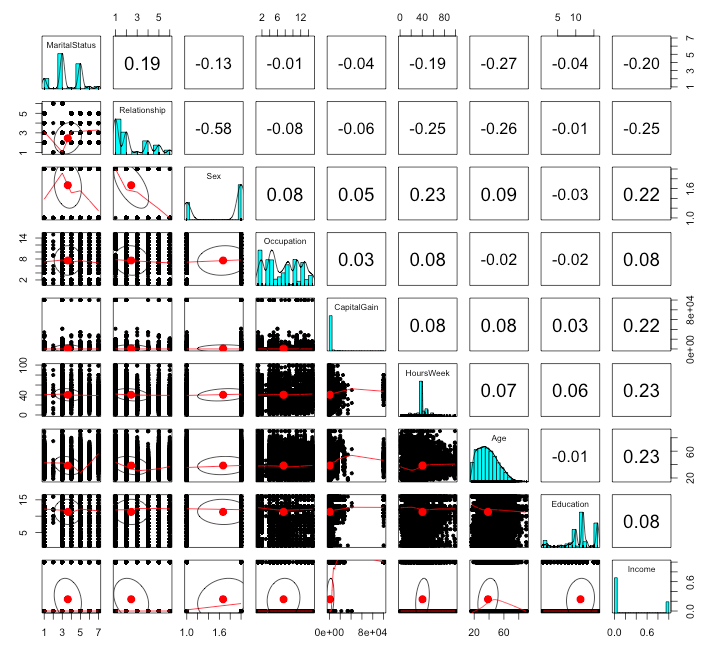
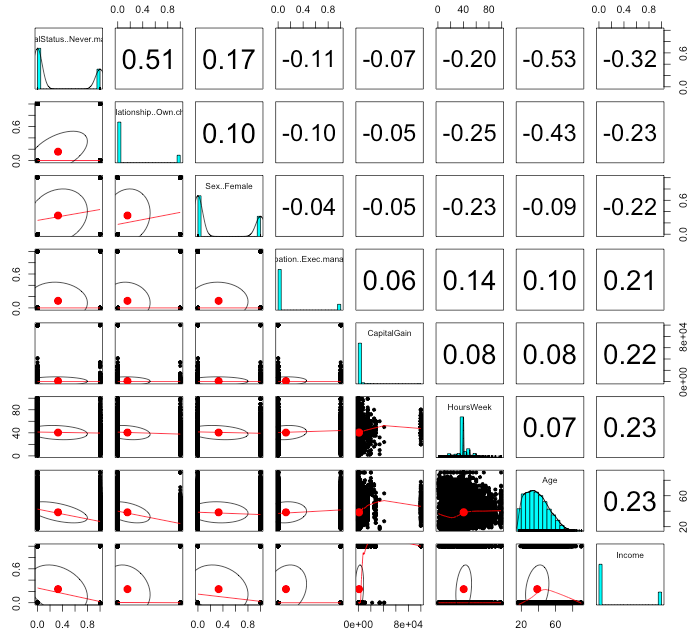
u

diff --git a/_posts/2014-09-27-Exploring-Your-Data-Set.md b/_posts/2014-09-27-Exploring-Your-Data-Set.md
@@ -36,7 +36,7 @@ adults <- read.csv(textConnection(x), header=F)
 # adults <-read.csv('https://archive.ics.uci.edu/ml/machine-learning-databases/adult/adult.data', header=F)
 ```
 <BR>
-We fill in the missing headers for the UCI set and cast the outcome variable ``Income`` to a binary format of **1** and **0**. I am also changing the direction of the prediction, if it is under $50k, I assign it a 0, and above, I assign it a 1 - this will make the final correlation-matrix plot easier to understand:
+We fill in the missing headers for the UCI set and cast the outcome variable ``Income`` to a binary format of **1** and **0** (here I am reversing the orginal order, if it is under $50k, it is **0**, and above, **1** - this will make the final correlation-matrix plot easier to understand):
 
 ```r
 names(adults)=c('Age','Workclass','FinalWeight','Education','EducationNumber',
@@ -100,17 +100,19 @@ The top correlated pairs, as seen above, won't be of much use when they're from 
 
 ```r
 selectedSub <- subset(corList, (abs(cor) > 0.2 & j == 'Income'))
-bestSub <-  sapply(strsplit(as.character(selectedSub$i),'[.]'), "[", 1)
-bestSub <- unique(bestSub)
+bestSub <- c('MaritalStatus..Never.married','Relationship..Own.child',
+  'Sex..Female','Occupation..Exec.managerial','CapitalGain','HoursWeek','Age')
 ```
 <BR>
 Finally we plot the highly correlated pairs using the **{psych}** package's ``pair.panels`` plot (this can be done on the original data as ``pair.panels`` can handle factor and character variables):<BR>
-```{r}
-pairs.panels(adults[c(bestSub, 'Income')])
+```r
+library(psych)
+pairs.panels(adultsTrsf[c(bestSub, 'Income')])
 ```
 <BR>
 ![plot of chunk unnamed-chunk-9](../img/posts/correlations/unnamed-chunk-9.png) 
 <BR><BR>
+The pairs plot, and in particular the last ``income`` column, tell us a lot about our data set. Being never married is the most negatively correlated with income over $50,000/year and hours worked and age are the most postively correlated.<BR>  
 **Things to keep in mind**<BR>
 <li>If you have a huge number of features in your data set, then be ready for extra computing time,</li>
 <li>and don't bother plotting it via ``pair.panels``, it will end up hanging R.</li>
@@ -147,7 +149,7 @@ cor.prob <- function (X, dfr = nrow(X) - 2) {
         R[row(R) == col(R)] <- NA
         R
 }
- 
+
 ## Use this to dump the cor.prob output to a 4 column matrix
 ## with row/column indices, correlation, and p-value.
 ## See StackOverflow question: http://goo.gl/fCUcQ
@@ -169,11 +171,16 @@ print(head(corList,10))
 
 corList <- corMasterList[order(corMasterList$cor),]
 selectedSub <- subset(corList, (abs(cor) > 0.2 & j == 'Income'))
+# to get the best variables from original list:
 bestSub <-  sapply(strsplit(as.character(selectedSub$i),'[.]'), "[", 1)
 bestSub <- unique(bestSub)
 
+# or use the variables from top selectedSub:
+bestSub <- c('MaritalStatus..Never.married','Relationship..Own.child',
+  'Sex..Female','Occupation..Exec.managerial','CapitalGain','HoursWeek','Age')
+
 library(psych)
-pairs.panels(adults[c(bestSub, 'Income')])
+pairs.panels(adultsTrsf[c(bestSub, 'Income')])
 ```
 
 <div class="row">   
